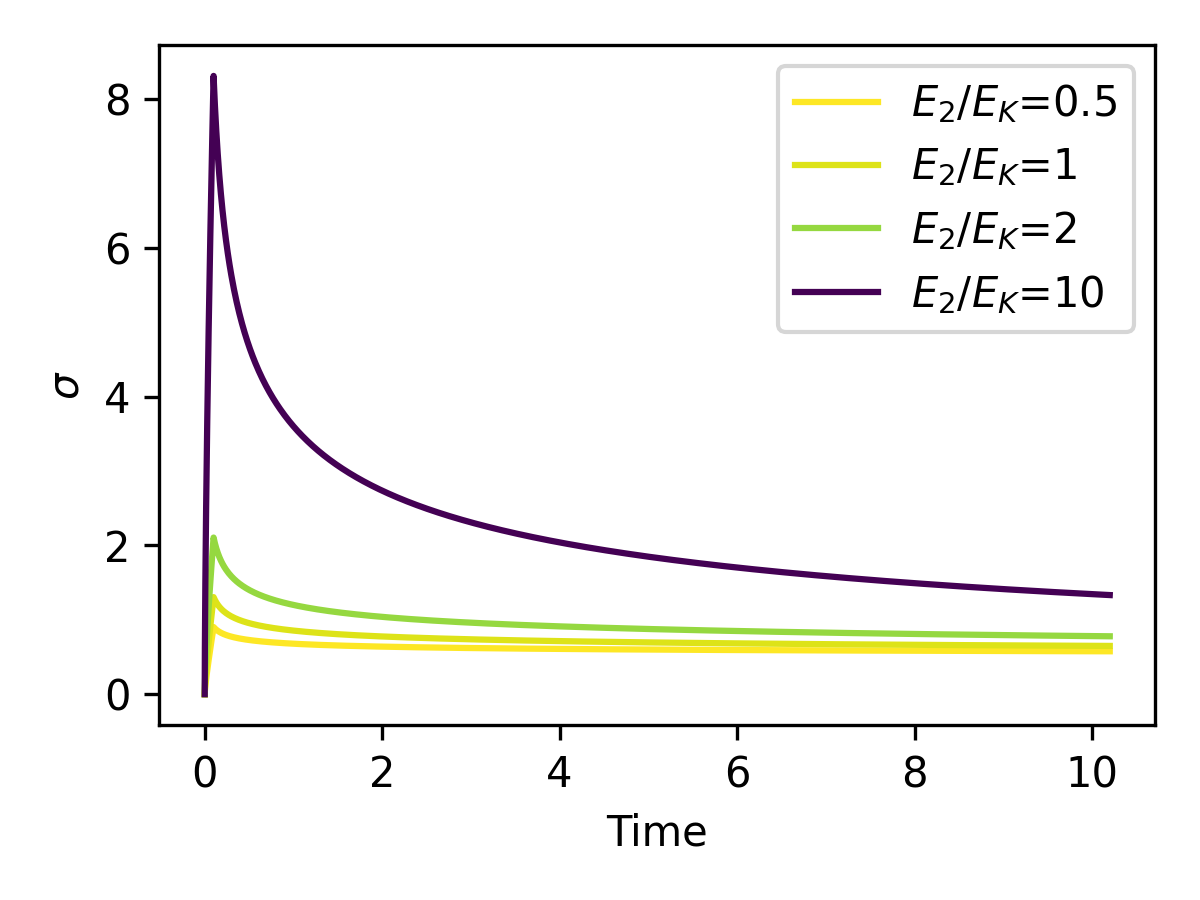
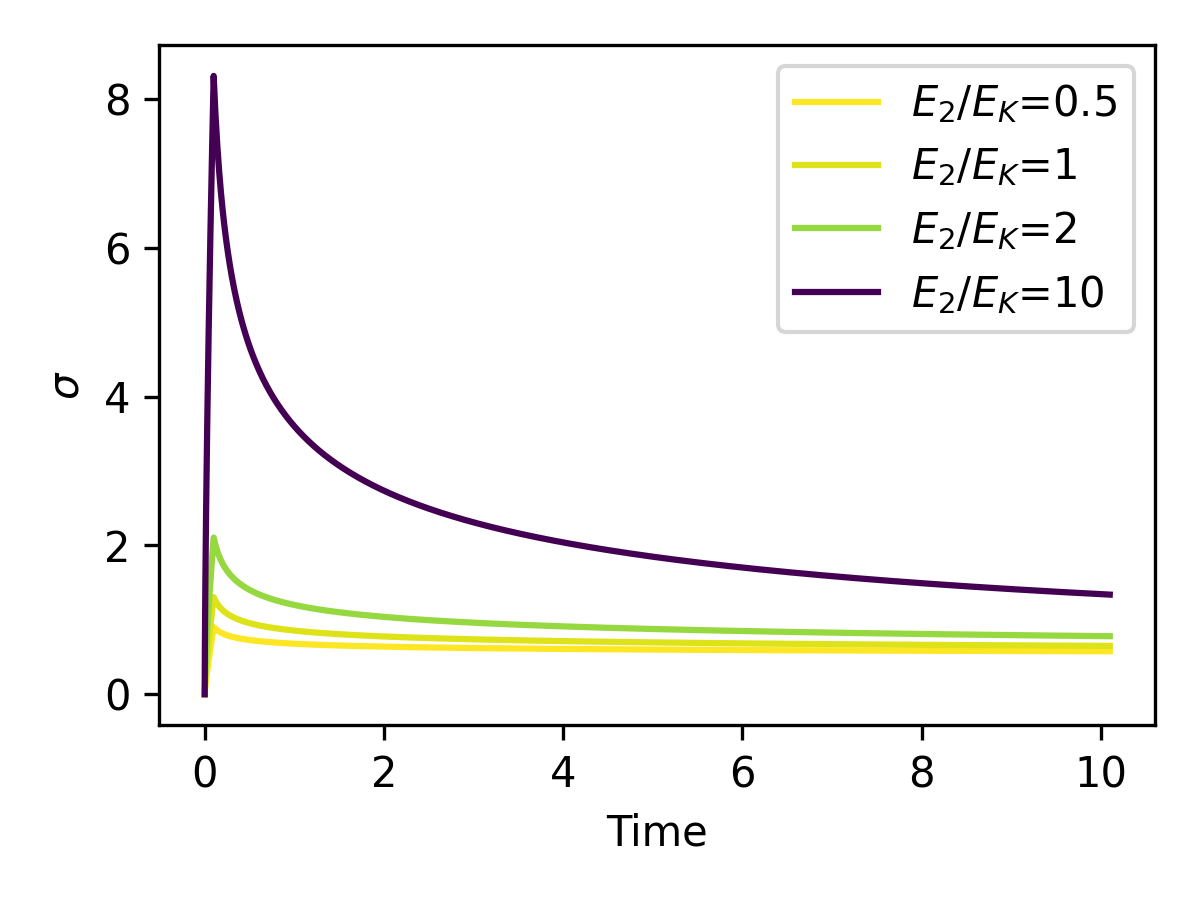
adding utils and sweep

diff --git a/tests/test_sls_sweep.py b/tests/test_sls_sweep.py
@@ -1,0 +1,69 @@
+import os
+import matplotlib.pyplot as plt
+from matplotlib.cm import ScalarMappable
+from matplotlib.colors import Normalize
+
+from pyvisq import FractionalSLS
+from pyvisq.utils import sweep, map_dict
+
+A = 1
+B = 0.35  # 0 =< B < A =< 1
+A, B = max(A, B), min(A, B)
+
+E1 = 10.0
+E2 = E1  # for simplicity
+T1 = 10
+T2 = 1
+CA = E1 * T1 ** A
+CB = E2 * T2 ** B
+EK = 1.0
+
+
+config_full = {
+    'A': A,
+    'B': B,
+    'E1': E1,
+    'E2': E2,
+    'T1': T1,
+    'T2': T2,
+    'EK': EK,
+}
+config_direct = {
+    'A': A,
+    'B': B,
+    'CA': CA,
+    'CB': CB,
+    'EK': EK,
+}
+I = 0.5
+D = 0.1
+L = 10
+config_test = {
+    'I': I,
+    'D': D,
+    'L': L,
+}
+x_to_y = ('E2', 'EK')
+values = [0.5, 1, 2, 10]
+cmap = plt.get_cmap('viridis_r')
+norm = Normalize(vmin=min(values), vmax=max(values))
+sm = ScalarMappable(norm=norm, cmap=cmap)
+fig = plt.figure(figsize=(4, 3))
+
+sls_base = FractionalSLS(config_full)
+sls_base.set_test(config_test)
+sweep_dict = sweep(sls_base, x_to_y, values)
+
+for val, sls in sweep_dict.items():
+    sls.run()
+
+    plt.plot(sls.time, sls.stress, color=sm.to_rgba(val),
+             label=f"${map_dict[x_to_y[0]]} / {map_dict[x_to_y[1]]}$=" + str(val))
+
+plt.xlabel('Time')
+plt.ylabel('$\\sigma$')
+plt.legend()
+plt.tight_layout()
+plt.savefig(os.path.join('../data/sweep/', str(x_to_y[0]) +
+            '_to_' + str(x_to_y[1]) + '.png'), dpi=300)
+plt.show()

diff --git a/pyvisq/utils/utils.py b/pyvisq/utils/utils.py
@@ -1,0 +1,33 @@
+import copy
+from ..model import Model
+
+
+def sweep(model: Model, x_to_y: tuple[str, str], values: list[float]) -> dict[float, Model]:
+    sweep_dict = dict()
+    x, y = x_to_y
+    y_value = getattr(model, y)
+    for val in values:
+        new_model = copy.deepcopy(model)
+        x_value = val * y_value
+        setattr(new_model, x, x_value)
+        new_model.make()
+        new_model.run()
+        sweep_dict[val] = new_model
+
+    return sweep_dict
+
+
+map_dict = {
+    'A': '\\alpha',
+    'B': '\\beta',
+    'E1': 'E_1',
+    'E2': 'E_2',
+    'T1': '\\tau_1',
+    'T2': '\\tau_2',
+    'EK': 'E_K',
+    'CA': 'c_{\\alpha}',
+    'CB': 'c_{\\beta}',
+    'I': '\\epsilon',
+    'D': 't_{ind}',
+    'L': 't_{dwell}',
+}

diff --git a/pyvisq/model.py b/pyvisq/model.py
@@ -1,6 +1,5 @@
 import numpy as np
 import numpy.typing as npt
-import copy
 
 
 class Model:
@@ -80,18 +79,3 @@ class Model:
             'stress': self.stress[idx:]
         }
         return dwell
-
-
-def sweep(model: Model, x_to_y: tuple[str, str], values: list[float]) -> dict[float, Model]:
-    sweep_dict = dict()
-    x, y = x_to_y
-    y_value = getattr(model, y)
-    for val in values:
-        new_model = copy.deepcopy(model)
-        x_value = val * y_value
-        setattr(new_model, x, x_value)
-        new_model.make()
-        new_model.run()
-        sweep_dict[val] = new_model
-
-    return sweep_dict

diff --git a/tests/test_fractional_sls.py b/tests/test_fractional_sls.py
@@ -6,6 +6,8 @@ from matplotlib.cm import ScalarMappable
 from matplotlib.colors import Normalize
 
 from pyvisq import FractionalSLS
+from pyvisq.utils import map_dict
+
 
 A = 1
 B = 0.3  # 0 =< B < A =< 1
@@ -20,20 +22,7 @@ CB = E2 * T2 ** B
 EK = 10.0
 mode = 'fast'
 
-map_dict = {
-    'A': '\\alpha',
-    'B': '\\beta',
-    'E1': 'E_1',
-    'E2': 'E_2',
-    'T1': '\\tau_1',
-    'T2': '\\tau_2',
-    'EK': 'E_K',
-    'CA': 'c_{\\alpha}',
-    'CB': 'c_{\\beta}',
-    'I': '\\epsilon',
-    'D': 't_{ind}',
-    'L': 't_{dwell}',
-}
+
 config_full = {
     'A': A,
     'B': B,

diff --git a/tests/test_sls.py b/tests/test_sls.py
@@ -4,26 +4,15 @@ import matplotlib.pyplot as plt
 
 from matplotlib.cm import ScalarMappable
 from matplotlib.colors import Normalize
+
 from pyvisq import SLS
+from pyvisq.utils import map_dict
 
 E1 = 1.0
 T1 = 1.0
 EK = 10.0
 
-map_dict = {
-    'A': '\\alpha',
-    'B': '\\beta',
-    'E1': 'E_1',
-    'E2': 'E_2',
-    'T1': '\\tau_1',
-    'T2': '\\tau_2',
-    'EK': 'E_K',
-    'CA': 'c_{\\alpha}',
-    'CB': 'c_{\\beta}',
-    'I': '\\epsilon',
-    'D': 't_{ind}',
-    'L': 't_{dwell}',
-}
+
 config_full = {
     'E1': E1,
     'T1': T1,

diff --git a/pyvisq/utils/__init__.py b/pyvisq/utils/__init__.py
@@ -1,0 +1,1 @@
+from .utils import *
